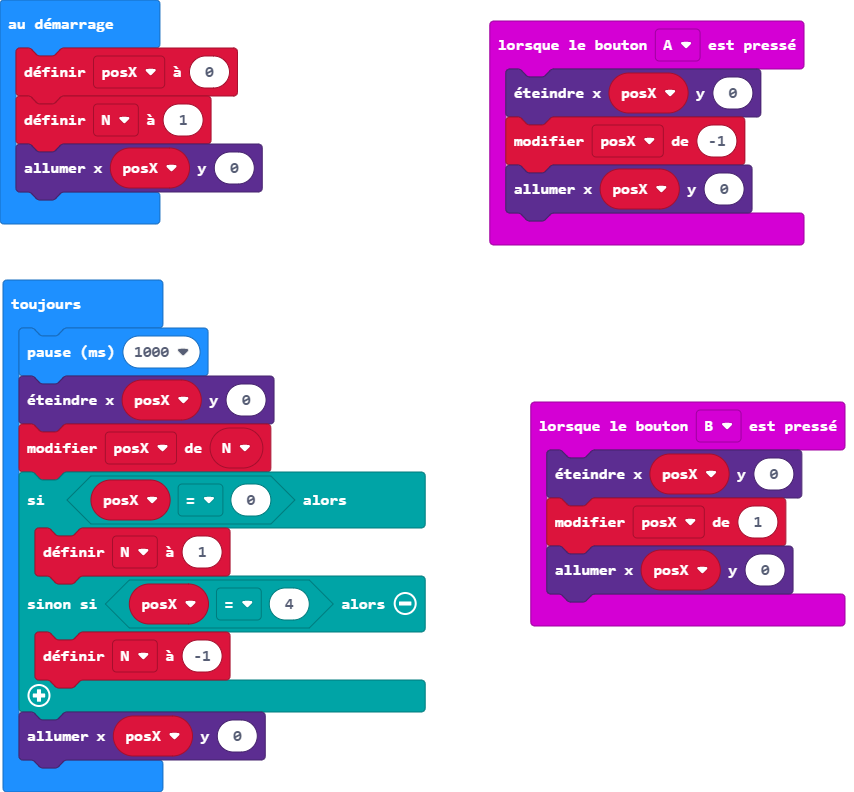
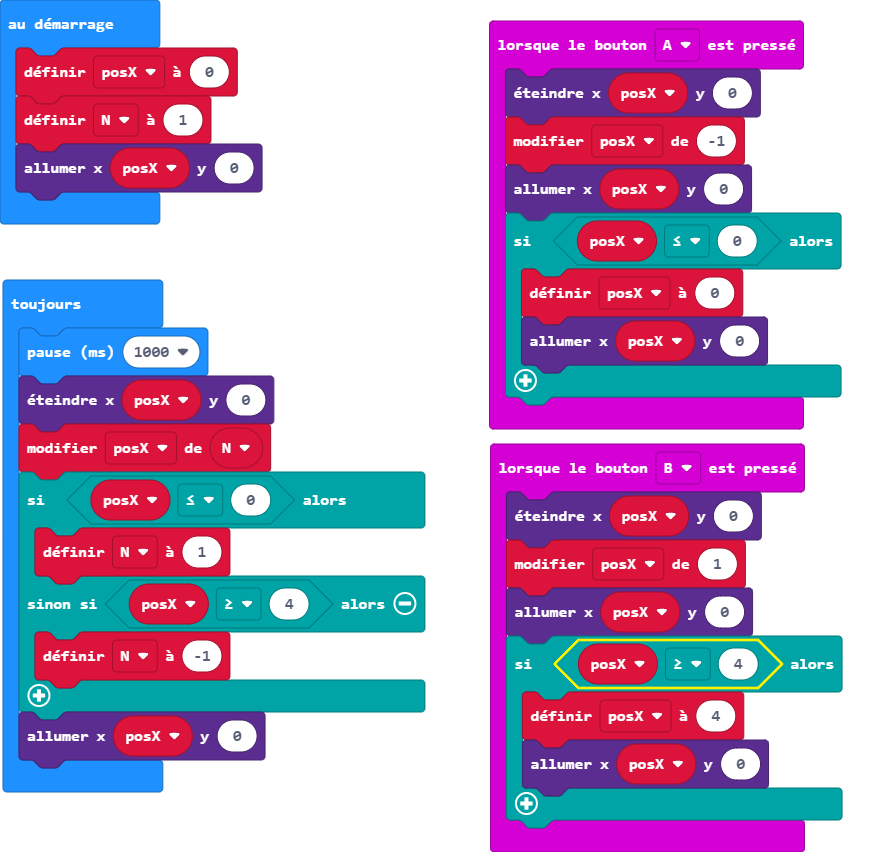
Mise à jour pxt.json, main.blocks, main.ts, main.py

diff --git a/main.ts b/main.ts
@@ -2,11 +2,19 @@ input.onButtonPressed(Button.A, function () {
     led.unplot(posX, 0)
     posX += -1
     led.plot(posX, 0)
+    if (posX <= 0) {
+        posX = 0
+        led.plot(posX, 0)
+    }
 })
 input.onButtonPressed(Button.B, function () {
     led.unplot(posX, 0)
     posX += 1
     led.plot(posX, 0)
+    if (posX >= 4) {
+        posX = 4
+        led.plot(posX, 0)
+    }
 })
 let posX = 0
 posX = 0
@@ -16,9 +24,9 @@ basic.forever(function () {
     basic.pause(1000)
     led.unplot(posX, 0)
     posX += N
-    if (posX == 0) {
+    if (posX <= 0) {
         N = 1
-    } else if (posX == 4) {
+    } else if (posX >= 4) {
         N = -1
     }
     led.plot(posX, 0)

diff --git a/main.py b/main.py
@@ -1,0 +1,36 @@
+def on_button_pressed_a():
+    global posX
+    led.unplot(posX, 0)
+    posX += -1
+    led.plot(posX, 0)
+    if posX < 0:
+        posX = 0
+        led.plot(posX, 0)
+input.on_button_pressed(Button.A, on_button_pressed_a)
+
+def on_button_pressed_b():
+    global posX
+    led.unplot(posX, 0)
+    posX += 1
+    led.plot(posX, 0)
+    if posX > 4:
+        posX = 4
+        led.plot(posX, 0)
+input.on_button_pressed(Button.B, on_button_pressed_b)
+
+posX = 0
+posX = 0
+N = 1
+led.plot(posX, 0)
+
+def on_forever():
+    global posX, N
+    basic.pause(1000)
+    led.unplot(posX, 0)
+    posX += N
+    if posX == 0:
+        N = 1
+    elif posX == 4:
+        N = -1
+    led.plot(posX, 0)
+basic.forever(on_forever)
